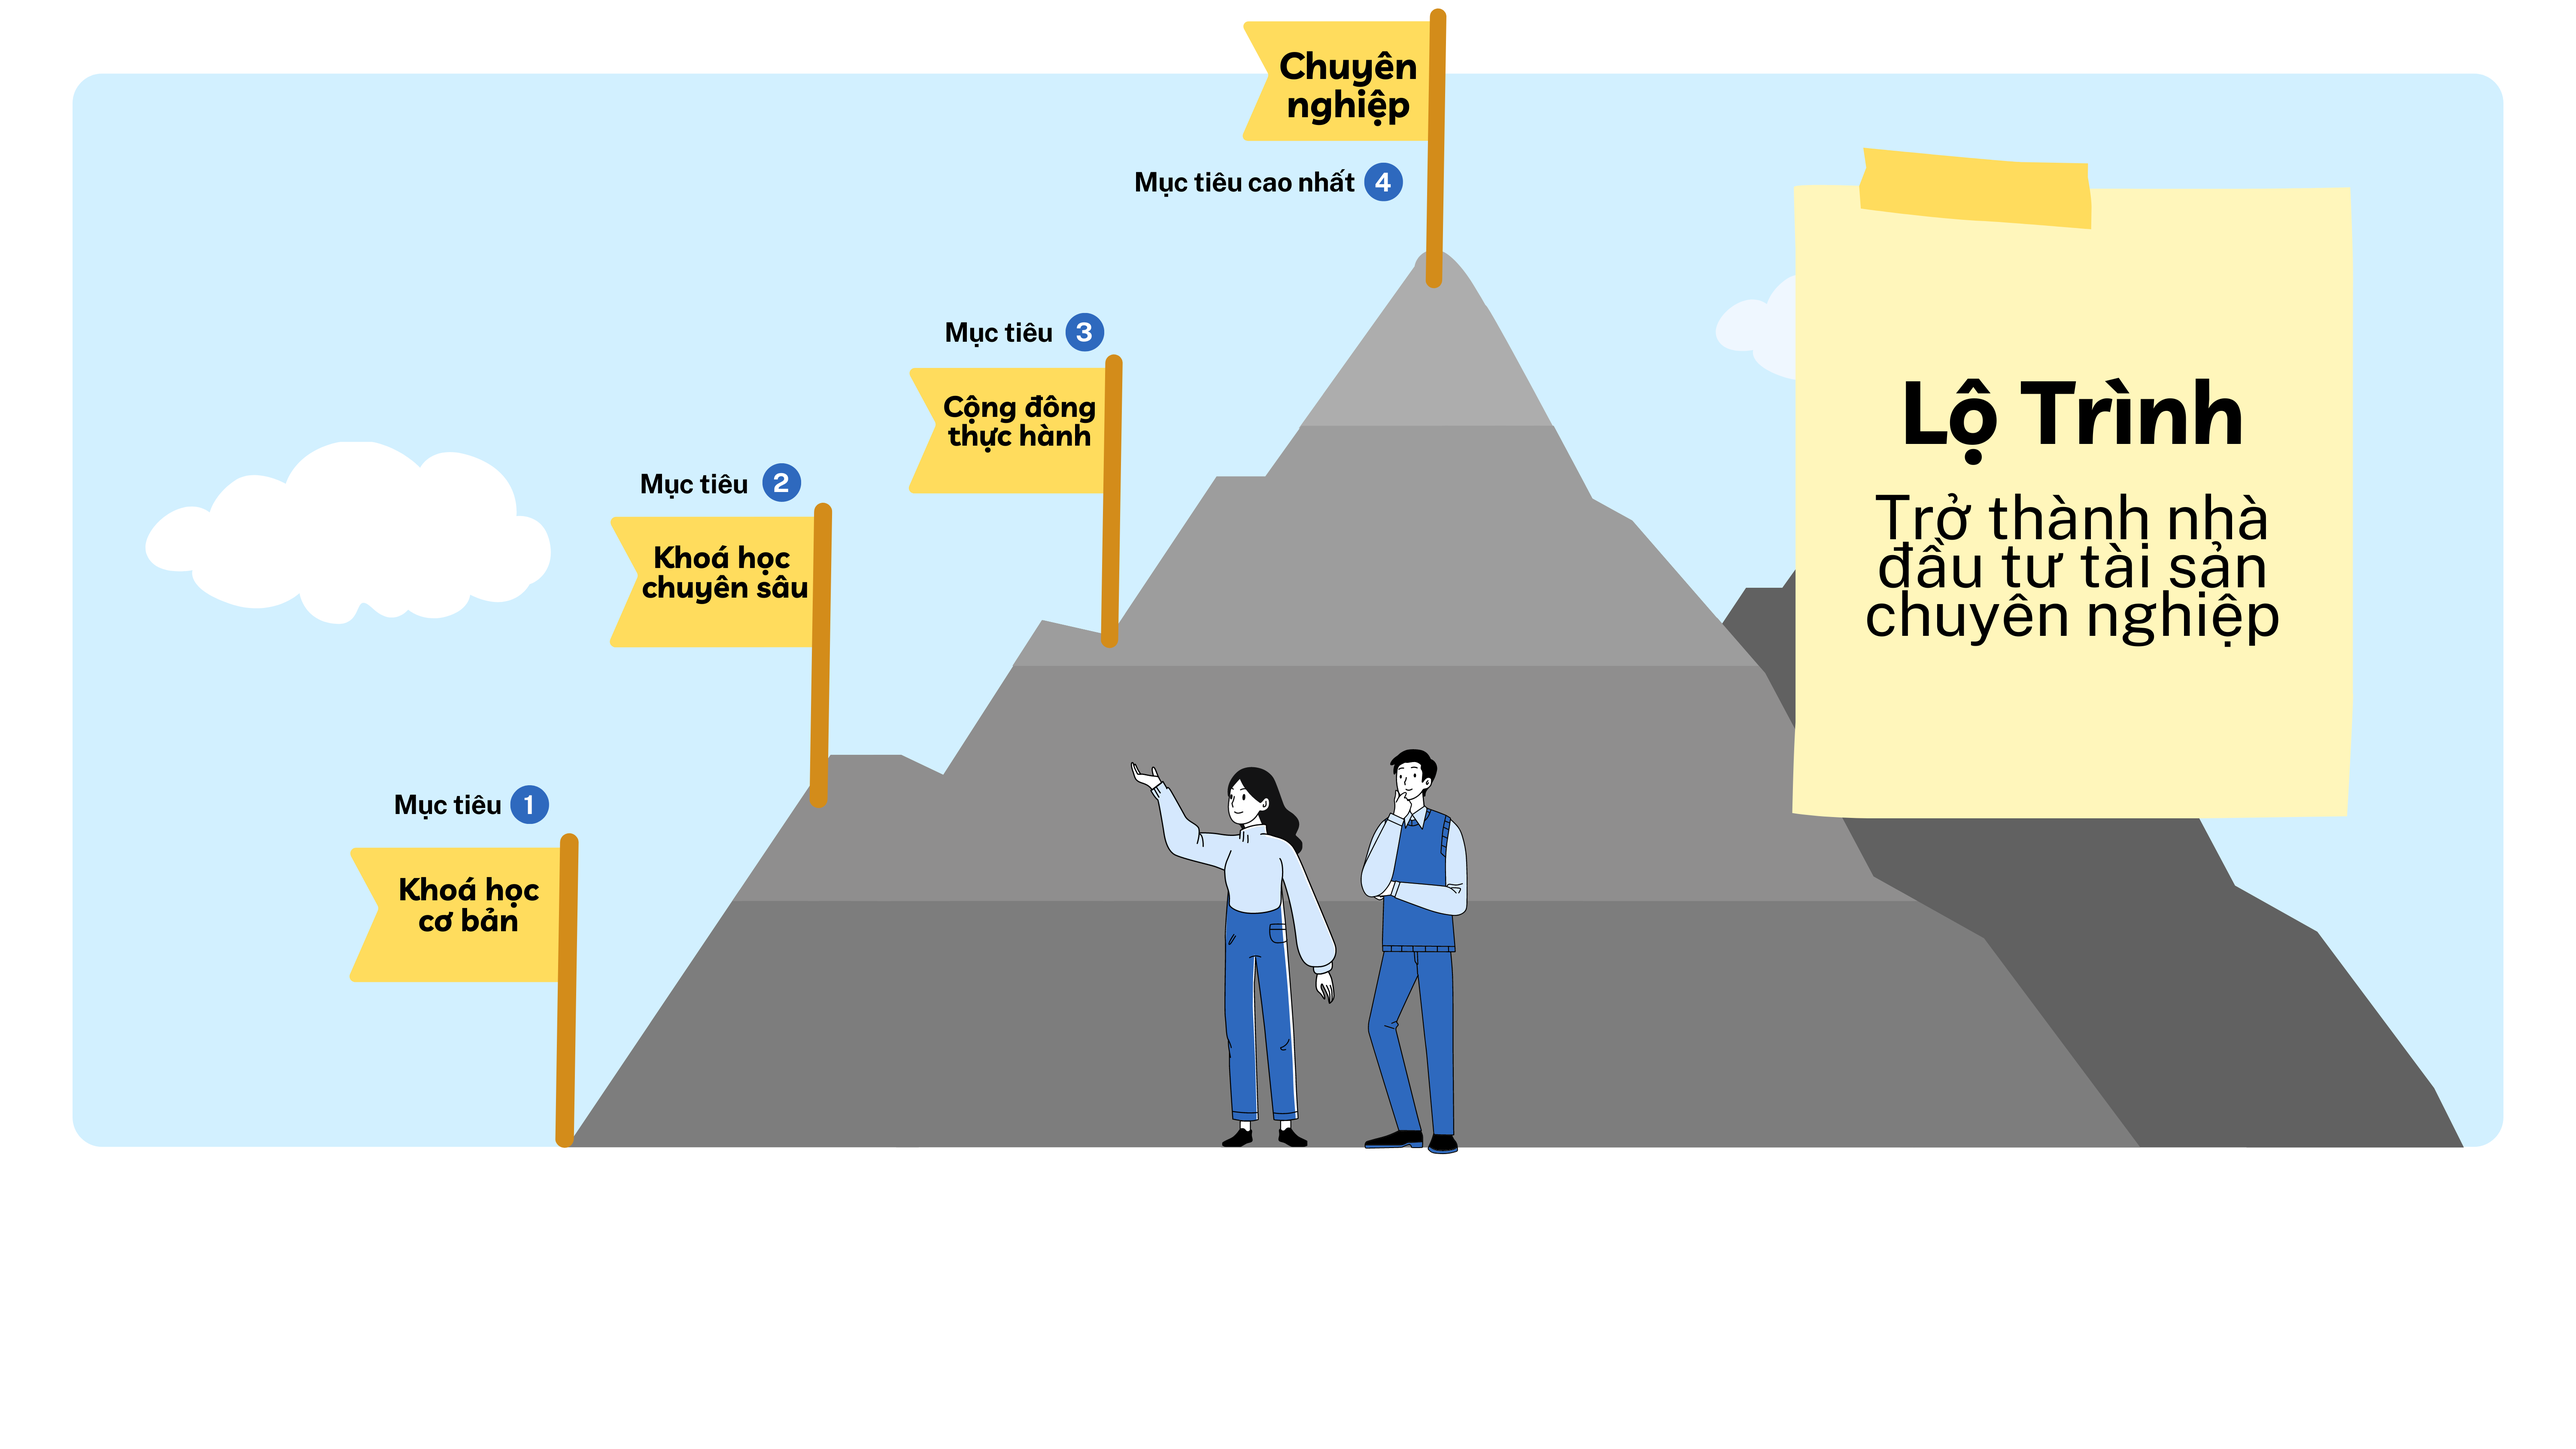
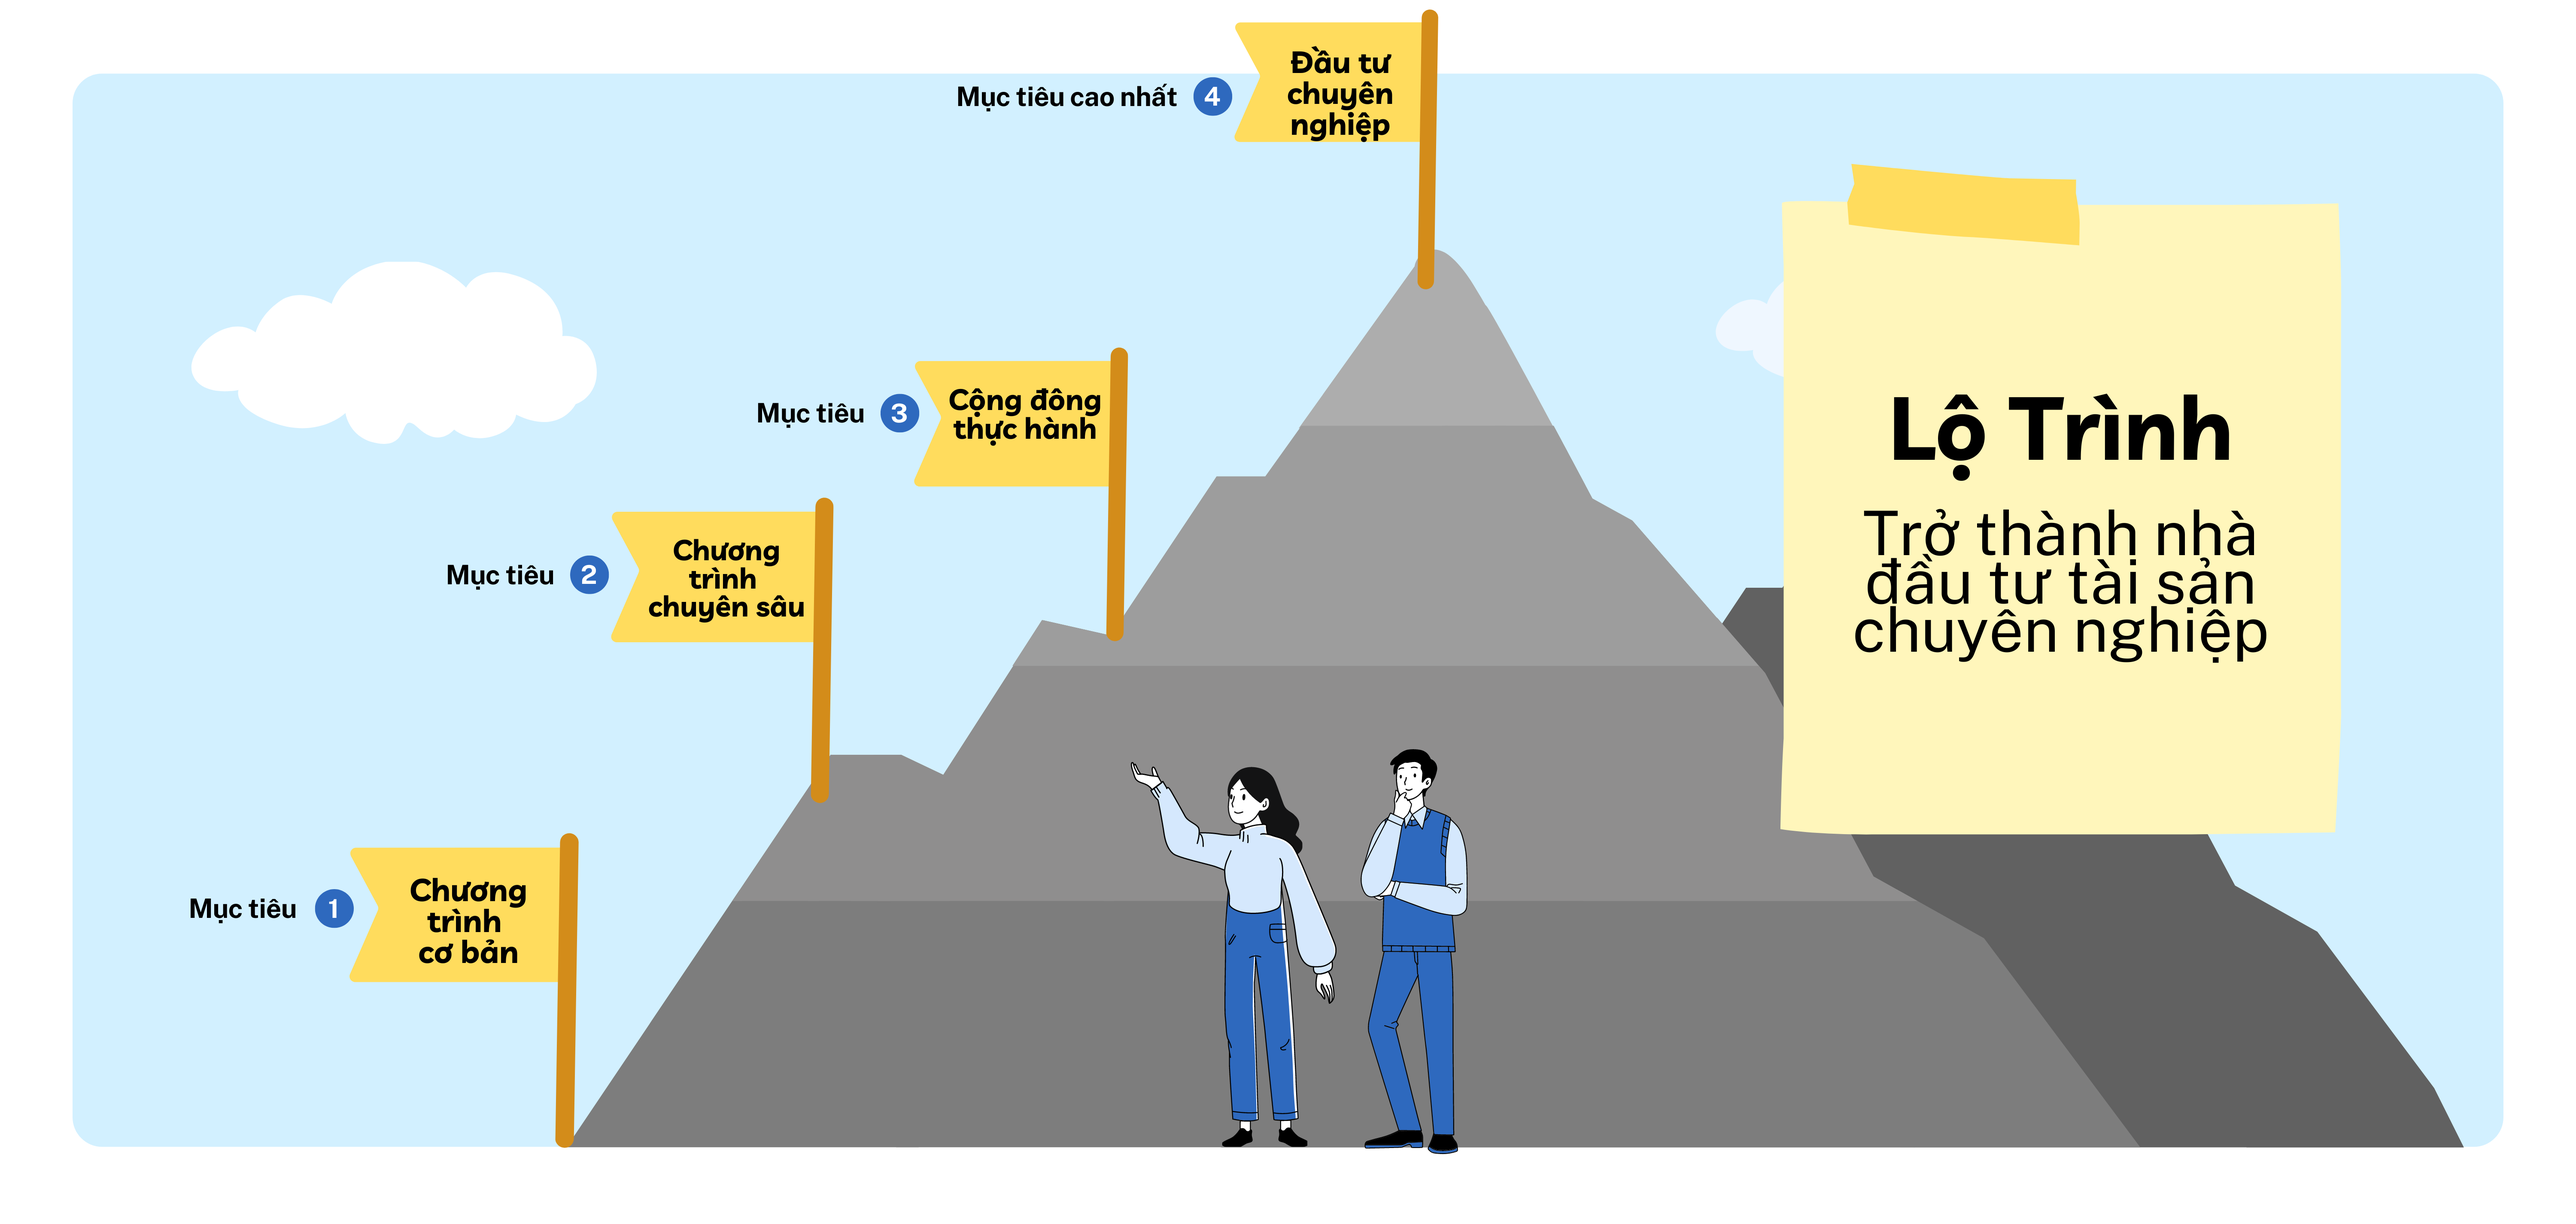
img lotrinh

diff --git a/src/pages/Home/Home.tsx b/src/pages/Home/Home.tsx
@@ -16,12 +16,13 @@ export const Home = () => {
   const [infoCompany, setInfoCompany] = useState<any>([]);
   const token = localStorage.getItem("token");
 
-  const [listCourse, setListCourse] = useState([]);
+  const [listCourse, setListCourse] = useState<any>([]);
+
   const [listBooks, setListBooks] = useState([]);
   const navigate = useNavigate();
   const getListCourses = () => {
     axios
-      .get(`${process.env.REACT_APP_PORT}/courses`, {
+      .get(`${process.env.REACT_APP_PORT}/courses-new`, {
         headers: {
           "Content-Type": "application/json",
           "X-Custom-Header": "foobar",
@@ -47,9 +48,7 @@ export const Home = () => {
   useEffect(() => {
     getBooks();
   }, []);
-  const handleBuy = (item: any) => {
-    navigate("/check-out", { state: { item } });
-  };
+
   const getCompany = () => {
     axios
       .get(`${process.env.REACT_APP_PORT}/title`, {
@@ -181,14 +180,80 @@ export const Home = () => {
           </div>
           <Element name="courses">
             <div className="carousel">
-              <strong className="title-course">KHOÁ HỌC</strong>
+              <strong className="title-course">CHƯƠNG TRÌNH CƠ BẢN</strong>
               <Flex
                 className="flex-course"
                 wrap="wrap"
                 gap="24px"
                 justify="center"
               >
-                {listCourse?.map((item: any, index: any) => (
+                {listCourse.listBasic?.map((item: any, index: any) => (
+                  <div
+                    onClick={() =>
+                      handleScrollTo(
+                        `/product-detail/${item?.course_id}`,
+                        "header"
+                      )
+                    }
+                    className="item-caroulsel"
+                  >
+                    <div className="title">
+                      <img
+                        style={{
+                          width: "100%",
+                          height: "150px",
+                          borderRadius: "3px",
+                          objectFit: "cover",
+                        }}
+                        src={item?.image}
+                        alt=""
+                      />
+                    </div>
+                    <div className="body">
+                      <div className="body-first">
+                        <div className="item-first">
+                          <Tooltip color="#04225C" title={item?.title}>
+                            <div
+                              style={{
+                                color: "#020C2F",
+                                height: "24px",
+                                fontSize: "17px",
+                                fontFamily: "system-ui",
+                                fontWeight: 600,
+                              }}
+                            >
+                              {item?.title?.length > 25
+                                ? `${item?.title?.slice(0, 25)}...`
+                                : item?.title}
+                            </div>
+                          </Tooltip>
+                        </div>
+                        <div className="text-demo">{item?.demo}</div>
+                        <div className="box-buy">
+                          <div className="price">
+                            {item.price
+                              .toLocaleString("en-US", {
+                                minimumFractionDigits: 0,
+                                maximumFractionDigits: 0,
+                              })
+                              .replace(/,/g, ".")}{" "}
+                            VND
+                          </div>
+                          <button className="buy-now">ĐĂNG KÝ KHOÁ HỌC</button>
+                        </div>
+                      </div>
+                    </div>
+                  </div>
+                ))}
+              </Flex>
+              <strong className="title-course">CHƯƠNG TRÌNH NÂNG CAO</strong>
+              <Flex
+                className="flex-course"
+                wrap="wrap"
+                gap="24px"
+                justify="center"
+              >
+                {listCourse?.listAdvance?.map((item: any, index: any) => (
                   <div
                     onClick={() =>
                       handleScrollTo(

diff --git a/src/pages/Home/styled.ts b/src/pages/Home/styled.ts
@@ -539,6 +539,7 @@ export const StyledHome = styled.div<any>`
     font-weight: 500;
     letter-spacing: 0.3em; /* Adjust this value as needed */
     font-family: Arial, sans-serif;
+    text-align: center;
   }
   .box-headerhome {
     display: flex;
